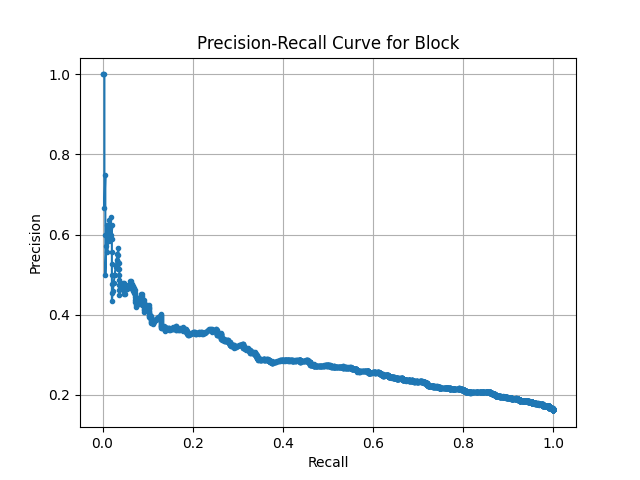
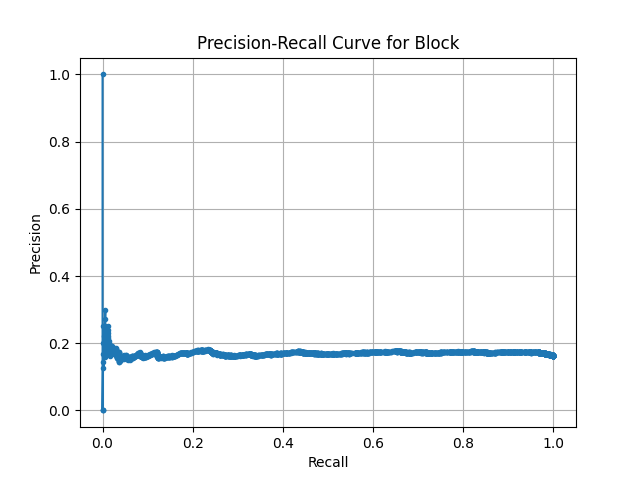
11/14/2025 Commit 1 - Attempt 7
Attempt 7 results - fail

diff --git a/interspeech2024-code/sed/wenet/wenet/bin/compute_thresholds.py b/interspeech2024-code/sed/wenet/wenet/bin/compute_thresholds.py
@@ -17,6 +17,8 @@ from torch.utils.data import DataLoader
 from wenet.utils.init_model import init_model
 from wenet.utils.checkpoint import load_checkpoint
 from wenet.utils.config import override_config
+from wenet.utils.cmvn import load_cmvn
+from wenet.transformer.cmvn import GlobalCMVN
 
 # Debug flag
 DEBUG = True
@@ -110,6 +112,12 @@ def main():
     model = model.to(device)
     model.eval()
 
+    if configs.get('cmvn_file') is not None:
+        mean_np, istd_np = load_cmvn(configs['cmvn_file'], configs.get('is_json_cmvn', True))
+        # Move to device for fast in-loop application
+        mean = torch.from_numpy(mean_np).float().to(device)
+        istd = torch.from_numpy(istd_np).float().to(device)
+
     all_probs = []
     all_labels = []
 
@@ -123,6 +131,19 @@ def main():
             feats_lengths = feats_lengths.to(device)
             target = target.to(device).int()
 
+            # NOTE: Do NOT apply external CMVN here by default. The StutterNet model
+            # used in this repo may have been trained on raw features (or already
+            # incorporates normalization). Applying CMVN blindly changed score
+            # distributions and harmed downstream PR/F1 metrics. We therefore avoid
+            # modifying features here; if you know you must apply CMVN, do it
+            # explicitly or enable it with a flag.
+
+            # We intentionally do NOT change `feats` here. Preprocessing must
+            # match how the model was trained. If you trained with an external
+            # CMVN, ensure the dev/test data were normalized prior to saving
+            # or compute thresholds. Automatic in-loop normalization caused
+            # incorrect results for this repo's models.
+            
             logits = model.decode(feats, feats_lengths)
             probs = logits.cpu().numpy()
             labels = target.cpu().numpy()
